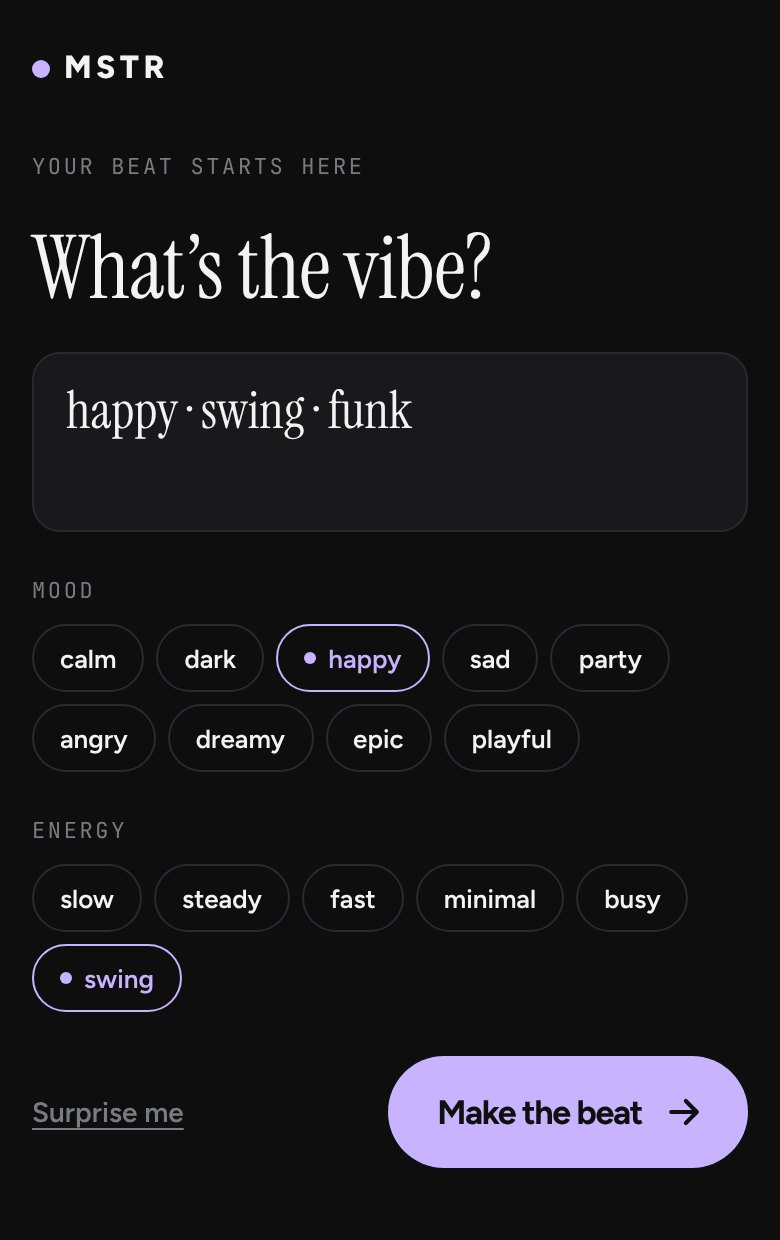
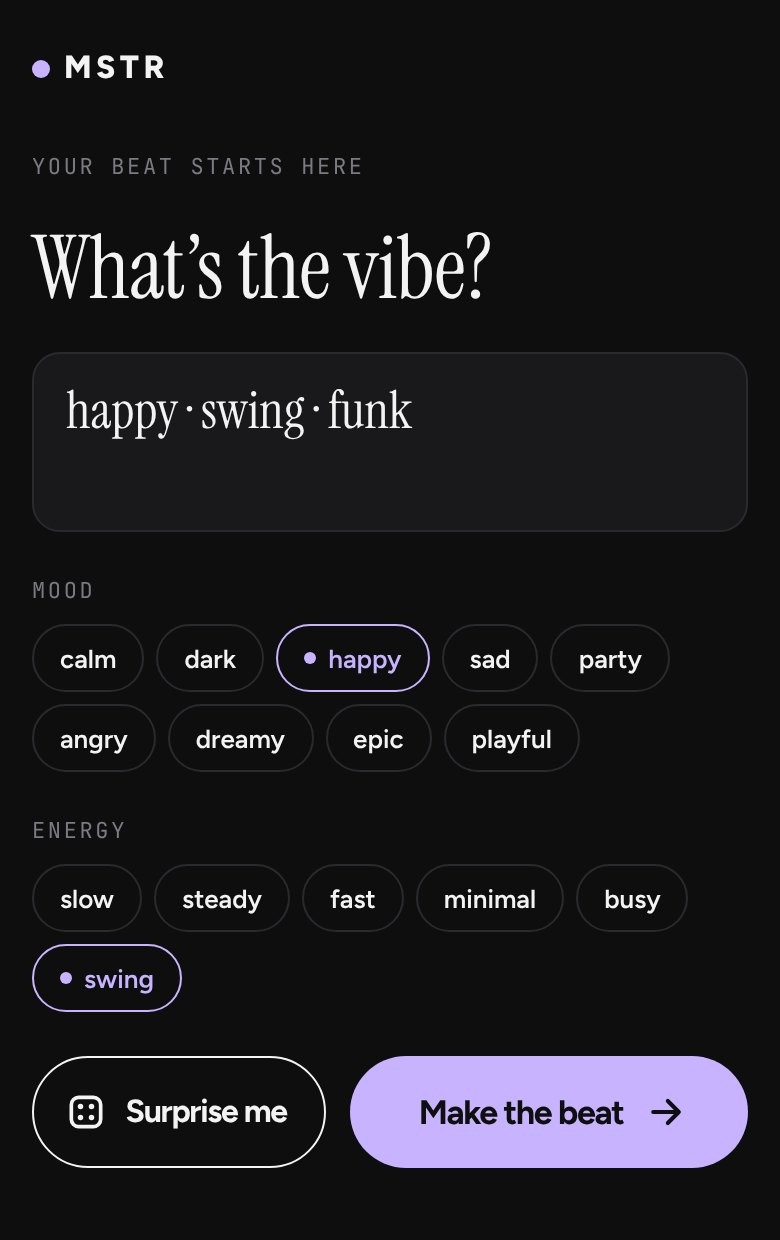
MSTR app: Surprise me as a big button, desktop headline fix (mstr #40)
Claude-Session: https://claude.ai/code/session_01WCtGHXdqNMZgkMLakytpzG

Changed region(s): [[0.4, 0.8274, 0.8923, 0.95], [0.0308, 0.8581, 0.3692, 0.9194]]

diff --git a/mstr/app/index.html b/mstr/app/index.html
@@ -200,7 +200,10 @@ input[type=range]::-moz-range-thumb{width:20px;height:20px;border-radius:50%;bac
 .vgrp .lbl{font-family:var(--f-mono);font-size:11px;letter-spacing:.12em;text-transform:uppercase;color:var(--mute)}
 /* Die Knopfzeile bleibt unten sichtbar, auch wenn die Wortreihen länger sind als der Bildschirm */
 .vgo{margin-top:auto;display:flex;align-items:center;justify-content:space-between;gap:12px;padding:12px 0 max(8px,env(safe-area-inset-bottom,0px));position:sticky;bottom:0;background:linear-gradient(transparent,var(--bg) 14px);box-shadow:0 48px 0 var(--bg);z-index:2}
-.vgo .lnk{color:var(--mute);text-decoration:underline;text-underline-offset:3px;font-size:14px}
+.pill.big.sur{height:56px;padding:0 20px 0 16px;font-size:16px;font-weight:700;gap:9px;color:var(--ink);border:1.5px solid var(--ink);background:var(--bg)}
+.pill.big.sur svg{width:22px;height:22px}
+.vgo .pill{flex:1 1 0;min-width:0}
+.vgo .pill.go.big{flex:1.4 1 0}
 .pill.go.big{height:56px;padding:0 20px 0 24px;background:var(--accent);color:var(--on-accent);border-color:transparent;font-size:17px;font-weight:700;gap:10px}
 .pill.go.big svg{width:22px;height:22px}
 /* Effekte: eine Zeile je Effekt, rechts ein Punkt wie im Raster (grau aus, Flieder an) */
@@ -228,6 +231,8 @@ input[type=range]::-moz-range-thumb{width:20px;height:20px;border-radius:50%;bac
 .cardct .pill{height:48px}
 .pill.go{background:var(--accent);color:var(--on-accent);border-color:var(--accent);font-size:15px;height:48px}
 .shnote{margin:0;font-size:13px;color:var(--mute);text-align:center}
+/* Überschriften und Hinweise im Blatt bleiben in der Spalte (ihr margin:0 überschreibt sonst das Zentrieren am Desktop) */
+.sheet>.ed,.sheet>.shnote{margin-inline:auto}
 .fxi i{width:26px;height:26px;border-radius:50%;background:var(--off);flex:none;transition:background .15s,transform .15s}
 .fxi[aria-pressed="true"] i{background:var(--accent);transform:scale(1.1)}
 .seg2{display:grid;grid-template-columns:1fr 1fr;gap:6px}
@@ -1480,7 +1485,7 @@ var WORTE=(function(){
     openSheet('<div class="sh-top"><span class="eyebrow">'+(first?'Your beat starts here':'New beat')+'</span>'+(first?'':XB)+'</div><h2 class="ed" id="sheetT">What\u2019s the vibe?</h2>'+
       '<form class="sayf vibef" autocomplete="off"><textarea id="sayIn" rows="2" maxlength="200" enterkeyhint="send" aria-labelledby="sheetT" placeholder="Tap words, or type"></textarea></form>'+
       VIBE.map(function(g){return '<div class="vgrp"><span class="lbl">'+g[0]+'</span><div class="chips">'+g[1].map(function(w){return '<button type="button" class="chip" data-w="'+w+'" aria-pressed="false">'+w+'</button>';}).join('')+'</div></div>';}).join('')+
-      '<div class="vgo"><button type="button" class="lnk" id="vSurprise">Surprise me</button><button type="button" class="pill go big" id="sayGo">Make the beat<svg viewBox="0 0 24 24" aria-hidden="true"><path d="M5 12h13M13 6l6 6-6 6" fill="none" stroke="currentColor" stroke-width="2.2" stroke-linecap="round" stroke-linejoin="round"/></svg></button></div>',function(el){
+      '<div class="vgo"><button type="button" class="pill big sur" id="vSurprise"><svg viewBox="0 0 24 24" aria-hidden="true"><rect x="4" y="4" width="16" height="16" rx="4" fill="none" stroke="currentColor" stroke-width="2"/><circle cx="9" cy="9" r="1.5" fill="currentColor"/><circle cx="15" cy="15" r="1.5" fill="currentColor"/><circle cx="15" cy="9" r="1.5" fill="currentColor"/><circle cx="9" cy="15" r="1.5" fill="currentColor"/></svg>Surprise me</button><button type="button" class="pill go big" id="sayGo">Make the beat<svg viewBox="0 0 24 24" aria-hidden="true"><path d="M5 12h13M13 6l6 6-6 6" fill="none" stroke="currentColor" stroke-width="2.2" stroke-linecap="round" stroke-linejoin="round"/></svg></button></div>',function(el){
       var inp=el.querySelector('#sayIn'),chips=[].slice.call(el.querySelectorAll('.chip'));
       inp.value=typeof S.say==='string'?S.say:'';
       function has(w){return new RegExp('(^|[^a-z])'+w+'(?=[^a-z]|$)','i').test(inp.value);}
